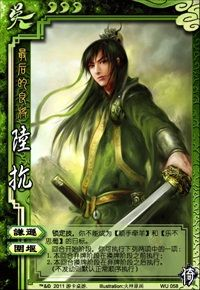
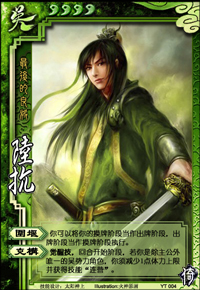
Modified the Skills of Lu Kang

diff --git a/src/package/yitianpackage.cpp b/src/package/yitianpackage.cpp
@@ -334,46 +334,70 @@ public:
     LukangWeiyan():PhaseChangeSkill("lukang_weiyan"){
     }
 
-    virtual QString getDefaultChoice(ServerPlayer *player) const{
-        if(player->getHandcardNum() > player->getMaxCards()){
-            return "choice2";
-        }else{
-            return "choice1";
-        }
+    virtual int getPriority() const{
+        return 4; // very high priority
     }
 
     virtual bool onPhaseChange(ServerPlayer *target) const{
-        if(target->getPhase() == Player::Start){
-            Room *room = target->getRoom();
-            QString choice = room->askForChoice(target, objectName(), "normal+choice1+choice2");
+        switch(target->getPhase()){
+        case Player::Draw: {
+                if(target->askForSkillInvoke("lukang_weiyan", "draw2play")){
+                    target->getRoom()->setPlayerProperty(target, "phase", "play");
+                }
 
-            if(choice == "normal")
-                return false;
-
-            LogMessage log;
-            log.from = target;
-
-            QList<Player::Phase> &phases = target->getPhases();
-            if(choice == "choice1"){
-                // discard phase is before draw phase
-                // that is: discard -> draw -> play
-                phases.removeOne(Player::Discard);
-                int index = phases.indexOf(Player::Draw);
-                phases.insert(index, Player::Discard);
-
-                log.type = "#WeiyanChoice1";
-            }else{
-                // drawing phase is after discard phase
-                // that is: play -> discard -> draw
-                phases.removeOne(Player::Draw);
-                int index = phases.indexOf(Player::Discard);
-                phases.insert(index+1, Player::Draw);
-
-                log.type = "#WeiyanChoice2";
+                break;
             }
 
-            room->sendLog(log);
+        case Player::Play:{
+                if(target->askForSkillInvoke("lukang_weiyan", "play2draw")){
+                    target->getRoom()->setPlayerProperty(target, "phase", "draw");
+                }
+
+                break;
+            }
+
+        default:
+            return false;
         }
+
+        return false;
+    }
+};
+
+class Kegou: public PhaseChangeSkill{
+public:
+    Kegou():PhaseChangeSkill("kegou"){
+        frequency = Wake;
+    }
+
+    virtual bool triggerable(const ServerPlayer *target) const{
+        return PhaseChangeSkill::triggerable(target)
+                && target->getPhase() == Player::Start
+                && target->getMark("kegou") == 0
+                && target->getKingdom() == "wu"
+                && !target->isLord();
+    }
+
+    virtual bool onPhaseChange(ServerPlayer *lukang) const{
+        foreach(const Player *player, lukang->getSiblings()){
+            if(player->isAlive() && player->getKingdom() == "wu"
+               && !player->isLord() && player != lukang){
+                return false;
+            }
+        }
+
+        lukang->setMark("kegou", 1);
+
+
+        Room *room = lukang->getRoom();
+
+        LogMessage log;
+        log.type = "#KegouWake";
+        log.from = lukang;
+        room->sendLog(log);
+
+        room->loseMaxHp(lukang);
+        room->acquireSkill(lukang, "lianying");
 
         return false;
     }
@@ -1826,8 +1850,8 @@ YitianPackage::YitianPackage()
     related_skills.insertMulti("jueji", "#jueji-get");
 
     General *lukang = new General(this, "lukang", "wu", 3);
-    lukang->addSkill("qianxun");
     lukang->addSkill(new LukangWeiyan);
+    lukang->addSkill(new Kegou);
 
     General *jinxuandi = new General(this, "jinxuandi", "god");
     jinxuandi->addSkill(new Wuling);

diff --git a/src/client/client.cpp b/src/client/client.cpp
@@ -629,7 +629,15 @@ void Client::askForUseCard(const QString &request_str){
     askForCardOrUseCard(request_str);
 }
 
-void Client::askForSkillInvoke(const QString &skill_name){
+void Client::askForSkillInvoke(const QString &invoke_str){
+    QString skill_name, data;
+    if(invoke_str.contains(QChar(':'))){
+        QStringList texts = invoke_str.split(":");
+        skill_name = texts.first();
+        data = texts.last();
+    }else
+        skill_name = invoke_str;
+
     bool auto_invoke = frequent_flags.contains(skill_name);
     if(auto_invoke){
         invokeSkill(QDialog::Accepted);
@@ -640,13 +648,19 @@ void Client::askForSkillInvoke(const QString &skill_name){
     QDialog *dialog = new QDialog;
     dialog->setWindowTitle(Sanguosha->translate(skill_name));
 
-    QString text = tr("Do you want to invoke skill [%1] ?").arg(dialog->windowTitle());
+    QString text;
+    if(data.isNull())
+        text = tr("Do you want to invoke skill [%1] ?").arg(dialog->windowTitle());
+    else
+        text = Sanguosha->translate(invoke_str);
 
     QLabel *label = new QLabel(text);
 
     QCommandLinkButton *ok_button = new QCommandLinkButton(tr("OK"));
-    QString description = Sanguosha->translate(QString("%1:yes").arg(skill_name));
-    ok_button->setToolTip(description);
+    QString key = QString("%1:yes").arg(skill_name);
+    QString description = Sanguosha->translate(key);
+    if(key != description)
+        ok_button->setToolTip(description);
 
     QCommandLinkButton *cancel_button = new QCommandLinkButton(tr("Cancel"));
 
@@ -1280,8 +1294,12 @@ void Client::clearTurnTag(){
             break;
     }
 
-    case Player::NotActive:{
+    case Player::Play:{
             Self->clearHistory();
+            break;
+        }
+
+    case Player::NotActive:{
             Self->clearFlags();
             break;
         }

diff --git a/src/server/room.cpp b/src/server/room.cpp
@@ -408,7 +408,12 @@ bool Room::askForSkillInvoke(ServerPlayer *player, const QString &skill_name, co
         thread->delay(Config.AIDelay);
         invoked = ai->askForSkillInvoke(skill_name, data);
     }else{
-        player->invoke("askForSkillInvoke", skill_name);
+        QString invoke_str;
+        if(data.type() == QVariant::String)
+            invoke_str = QString("%1:%2").arg(skill_name).arg(data.toString());
+        else
+            invoke_str = skill_name;
+        player->invoke("askForSkillInvoke", invoke_str);
         getResult("invokeSkillCommand", player);
 
         if(result.isEmpty())

diff --git a/src/package/mountainpackage.cpp b/src/package/mountainpackage.cpp
@@ -871,9 +871,10 @@ public:
     }
 
     virtual bool triggerable(const ServerPlayer *target) const{
-        return PhaseChangeSkill::triggerable(target)
-                && target->getMark("ruoyu") == 0
-                && target->getPhase() == Player::Start;
+        return target->getPhase() == Player::Start
+                && target->hasLordSkill("ruoyu")
+                && target->isAlive()
+                && target->getMark("ruoyu") == 0;
     }
 
     virtual bool onPhaseChange(ServerPlayer *liushan) const{

diff --git a/src/server/gamerule.cpp b/src/server/gamerule.cpp
@@ -60,6 +60,8 @@ void GameRule::onPhaseChange(ServerPlayer *player) const{
         }
 
     case Player::Play: {
+            player->clearHistory();
+
             while(player->isAlive()){
                 CardUseStruct card_use;
                 room->activate(player, card_use);
@@ -112,7 +114,6 @@ void GameRule::onPhaseChange(ServerPlayer *player) const{
             }
 
             player->clearFlags();
-            player->clearHistory();
 
             return;
         }

diff --git a/src/server/roomthread.cpp b/src/server/roomthread.cpp
@@ -119,11 +119,6 @@ void RoomThread::addPlayerSkills(ServerPlayer *player, bool invoke_game_start){
     QVariant void_data;
 
     foreach(const TriggerSkill *skill, player->getTriggerSkills()){
-        if(skill->isLordSkill()){
-            if(!player->isLord() || room->mode == "06_3v3")
-                continue;
-        }
-
         addTriggerSkill(skill);
 
         if(invoke_game_start && skill->getTriggerEvents().contains(GameStart))

diff --git a/src/package/standard-skillcards.cpp b/src/package/standard-skillcards.cpp
@@ -127,9 +127,9 @@ void FanjianCard::onEffect(const CardEffectStruct &effect) const{
     log.arg = Card::Suit2String(suit);
     room->sendLog(log);
 
+    room->getThread()->delay();
     target->obtainCard(card);
     room->showCard(target, card_id);
-    room->getThread()->delay();
 
     if(card->getSuit() != suit){
         DamageStruct damage;
